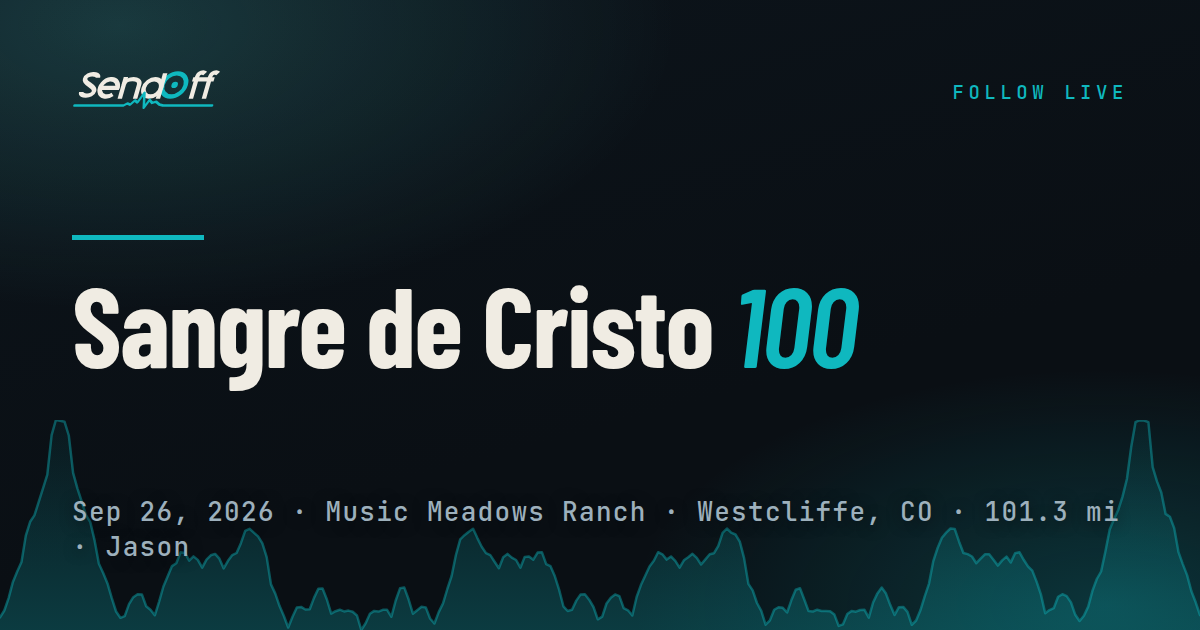
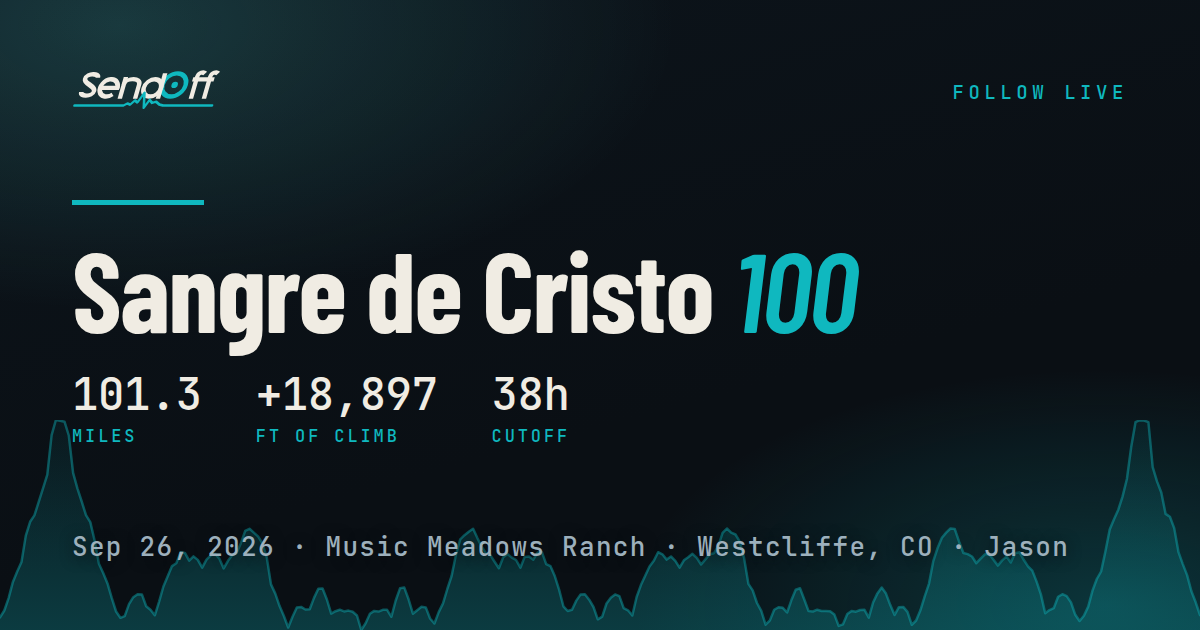
The address worth sharing is the one in the address bar
Most people share a race by copying the URL bar, not by finding a share
panel, and the bar always said race.html?id=. So the card work only
reached people who used the panel or clicked a bot's link.

Now: the hub links to /races/<slug>/ for a public race, the landing page
does, and the race page tidies the app URL into it once the config says
the race is public. Not when there is a token in the query, because a
share link's token is the one thing that must survive a copy, and never
for an unlisted race, which has no page of its own by construction.

This makes the share page a real address the app is served at rather than
a doorway that forwards, and two things had to be true for that to hold:

  Race.qs('id') reads the slug from /races/<slug>/ as well as from ?id=.
  sw.js (v6) answers a navigation to /races/<slug>/ with the precached
  race page instead of falling through to the hub. There is one share
  page per race, so they can never be precached; the app shell can.

Two real bugs fell out of testing the offline half, and both would have
been shipped by anyone reasoning about this instead of running it:

  race.html's scripts, styles and vendor files are all written relative.
  Served at /races/<slug>/ they resolved to /races/<slug>/lib/... and the
  page never loaded its JS at all. A base tag fixes every one, the same
  way the hub was handled when it moved to /app/.

  readRaceFile fetched the published copy at a relative races/<slug>/...,
[…]

Changed region(s): [[0.0617, 0.3619, 0.74, 0.7238], [0.0617, 0.7841, 0.925, 0.9048], [0.0617, 0.3016, 0.185, 0.3317]]

diff --git a/lib/race-core.js b/lib/race-core.js
@@ -121,7 +121,27 @@
 
   // ---------- query string ----------
   function qs(name) {
-    return new URLSearchParams(location.search).get(name);
+    const v = new URLSearchParams(location.search).get(name);
+    if (v !== null) return v;
+    // A race has two addresses that mean the same thing: race.html?id=<slug>,
+    // which is the app, and /races/<slug>/, which is the page carrying that
+    // race's own social card. The second is the one worth sharing, so it is
+    // the one the address bar ends up showing, and a page served there has no
+    // query to read the slug out of.
+    if (name === 'id') {
+      const m = location.pathname.match(/^\/races\/([^/]+)\/?$/);
+      if (m) return decodeURIComponent(m[1]);
+    }
+    return null;
+  }
+
+  // The address to hand somebody for a race. Only a public race has a page of
+  // its own: tools/make-og.py builds those from the public manifest, so an
+  // unlisted race never gets one and keeps the app URL.
+  function raceHref(slug, isPublic) {
+    return isPublic
+      ? `races/${encodeURIComponent(slug)}/`
+      : `race.html?id=${encodeURIComponent(slug)}`;
   }
 
   // ---------- hub config (hub.json) ----------
@@ -702,7 +722,13 @@
         } catch (e) { /* fall through to Pages */ }
       }
       try {
-        const res = await netFetch(`races/${encodeURIComponent(slug)}/${file}?_=` + Date.now(), { cache: 'no-store' });
+        // Absolute. This used to be relative, which was right for every page
+        // that lives at the site root and wrong the moment race.html is served
+        // at /races/<slug>/, where it resolved to /races/<slug>/races/<slug>/…
+        // and quietly found nothing. That only happens with no signal, when
+        // the service worker answers the share address with the app shell,
+        // which is exactly when there is nothing else to fall back to.
+        const res = await netFetch(`/races/${encodeURIComponent(slug)}/${file}?_=` + Date.now(), { cache: 'no-store' });
         if (res.ok) {
           const text = await res.text();
           // Offline, this "success" is often the service worker handing back
@@ -3596,7 +3622,7 @@
     // yet. Hence the ask: default to the address that always works, and upgrade
     // once the better one is known to be there.
     const appUrl = `${location.origin}${dir}race.html?id=${encodeURIComponent(this.slug())}`;
-    const cardUrl = `${location.origin}${dir}races/${encodeURIComponent(this.slug())}/`;
+    const cardUrl = `${location.origin}${dir}${raceHref(this.slug(), true)}`;
     let pageUrl = appUrl;
     if (!isPrivate) {
       try {
@@ -4017,5 +4043,5 @@
   }
 
   // ---------- expose ----------
-  window.Race = { fmt, units, slug, qs, hub, config, auth, share, api, gh, queue, roles, plans, archive, activities, nav, course, stationAt, fuel, compute, gpx, charts, access, mountAccountWidget, mountBetaBadge, offline, lastSeen, feedback, openFeedbackModal };
+  window.Race = { fmt, units, slug, qs, raceHref, hub, config, auth, share, api, gh, queue, roles, plans, archive, activities, nav, course, stationAt, fuel, compute, gpx, charts, access, mountAccountWidget, mountBetaBadge, offline, lastSeen, feedback, openFeedbackModal };
 })();

diff --git a/race.html b/race.html
@@ -3,6 +3,12 @@
 <head>
 <meta charset="UTF-8" />
 <meta name="viewport" content="width=device-width, initial-scale=1.0" />
+<!-- This page answers to two addresses: race.html?id=<slug>, and
+     /races/<slug>/ when the service worker serves it there with no signal.
+     Every script, style and asset below is written relative, which is right
+     at the root and resolves to /races/<slug>/lib/... at the other. One base
+     tag keeps them all pointing at the same place from either address. -->
+<base href="/">
 <title>SendOff</title>
 <link rel="icon" href="brand/sendoff-favicon.svg" type="image/svg+xml">
 <meta name="theme-color" content="#0a0f14" />
@@ -516,6 +522,25 @@
 <script>
   const REFRESH_MS = 10000;
   const slug = Race.qs('id');
+
+  // What somebody copies out of the address bar should be the address worth
+  // sharing. Arriving at /races/<slug>/ forwards here, which put the app URL
+  // back in the bar and undid the whole point of that page existing; most
+  // people share by copying the bar rather than by finding a share panel.
+  //
+  // Only for a public race, because only a public race has a page. Only when
+  // there is no token in the query, because a share link's token is the one
+  // thing that must survive a copy. And guarded, because a browser that
+  // dislikes this should not take the race page down with it.
+  function useShareableAddress(cfg) {
+    try {
+      if (!cfg || cfg.visibility !== 'public') return;
+      if (Race.qs('t') || Race.qs('new')) return;
+      const want = new URL(Race.raceHref(slug, true), location.origin).pathname;
+      if (location.pathname === want) return;
+      history.replaceState(history.state, '', want + location.hash);
+    } catch (e) { /* the address bar is cosmetic; the page is not */ }
+  }
   if (!slug) { window.location = 'index.html'; }
 
   // Update nav links to carry the slug
@@ -961,6 +986,8 @@
       data = Race.queue.applyTo(`races/${slug}/data.json`,
         await Race.gh.readRaceJson(slug, 'data.json', true));
       lastFetchAt = new Date();
+
+      useShareableAddress(cfg);
 
       document.title = `${cfg.name} · SendOff`;
       document.getElementById('race-title').innerHTML =

diff --git a/races/000001-sangre-de-cristo-100/index.html b/races/000001-sangre-de-cristo-100/index.html
@@ -5,12 +5,12 @@
 <meta name="viewport" content="width=device-width, initial-scale=1.0">
 <title>Sangre de Cristo 100 · SendOff</title>
 <meta name="theme-color" content="#0a0f14">
-<meta name="description" content="Sep 26, 2026 · Music Meadows Ranch · Westcliffe, CO · 101.3 mi · Jason: follow live on SendOff.">
+<meta name="description" content="Sep 26, 2026 · Music Meadows Ranch · Westcliffe, CO · Jason: follow live on SendOff.">
 <link rel="canonical" href="https://sendoff.run/races/000001-sangre-de-cristo-100/">
 <meta property="og:type" content="website">
 <meta property="og:site_name" content="SendOff">
 <meta property="og:title" content="Sangre de Cristo 100">
-<meta property="og:description" content="Sep 26, 2026 · Music Meadows Ranch · Westcliffe, CO · 101.3 mi · Jason: follow live on SendOff.">
+<meta property="og:description" content="Sep 26, 2026 · Music Meadows Ranch · Westcliffe, CO · Jason: follow live on SendOff.">
 <meta property="og:url" content="https://sendoff.run/races/000001-sangre-de-cristo-100/">
 <meta property="og:image" content="https://sendoff.run/races/000001-sangre-de-cristo-100/og.png">
 <meta property="og:image:width" content="1200">
@@ -18,7 +18,7 @@
 <meta property="og:image:alt" content="Sangre de Cristo 100: follow live on SendOff">
 <meta name="twitter:card" content="summary_large_image">
 <meta name="twitter:title" content="Sangre de Cristo 100">
-<meta name="twitter:description" content="Sep 26, 2026 · Music Meadows Ranch · Westcliffe, CO · 101.3 mi · Jason: follow live on SendOff.">
+<meta name="twitter:description" content="Sep 26, 2026 · Music Meadows Ranch · Westcliffe, CO · Jason: follow live on SendOff.">
 <meta name="twitter:image" content="https://sendoff.run/races/000001-sangre-de-cristo-100/og.png">
 <link rel="icon" href="/brand/sendoff-favicon.svg" type="image/svg+xml">
 <link rel="icon" type="image/png" sizes="32x32" href="/brand/favicon-32.png">

diff --git a/races/highball-to-thurmond-ultra/index.html b/races/highball-to-thurmond-ultra/index.html
@@ -5,12 +5,12 @@
 <meta name="viewport" content="width=device-width, initial-scale=1.0">
 <title>Highball to Thurmond Ultra · SendOff</title>
 <meta name="theme-color" content="#0a0f14">
-<meta name="description" content="May 17, 2026 · Thurmond, WV · 50 mi · Soft Serve: follow live on SendOff.">
+<meta name="description" content="May 17, 2026 · Thurmond, WV · Soft Serve: follow live on SendOff.">
 <link rel="canonical" href="https://sendoff.run/races/highball-to-thurmond-ultra/">
 <meta property="og:type" content="website">
 <meta property="og:site_name" content="SendOff">
 <meta property="og:title" content="Highball to Thurmond Ultra">
-<meta property="og:description" content="May 17, 2026 · Thurmond, WV · 50 mi · Soft Serve: follow live on SendOff.">
+<meta property="og:description" content="May 17, 2026 · Thurmond, WV · Soft Serve: follow live on SendOff.">
 <meta property="og:url" content="https://sendoff.run/races/highball-to-thurmond-ultra/">
 <meta property="og:image" content="https://sendoff.run/races/highball-to-thurmond-ultra/og.png">
 <meta property="og:image:width" content="1200">
@@ -18,7 +18,7 @@
 <meta property="og:image:alt" content="Highball to Thurmond Ultra: follow live on SendOff">
 <meta name="twitter:card" content="summary_large_image">
 <meta name="twitter:title" content="Highball to Thurmond Ultra">
-<meta name="twitter:description" content="May 17, 2026 · Thurmond, WV · 50 mi · Soft Serve: follow live on SendOff.">
+<meta name="twitter:description" content="May 17, 2026 · Thurmond, WV · Soft Serve: follow live on SendOff.">
 <meta name="twitter:image" content="https://sendoff.run/races/highball-to-thurmond-ultra/og.png">
 <link rel="icon" href="/brand/sendoff-favicon.svg" type="image/svg+xml">
 <link rel="icon" type="image/png" sizes="32x32" href="/brand/favicon-32.png">

diff --git a/races/six-0-trail-marathon/index.html b/races/six-0-trail-marathon/index.html
@@ -5,12 +5,12 @@
 <meta name="viewport" content="width=device-width, initial-scale=1.0">
 <title>Six-0 Trail Marathon · SendOff</title>
 <meta name="theme-color" content="#0a0f14">
-<meta name="description" content="Sep 5, 2026 · Cleburne, TX · 26.6 mi · Jason Dupree: follow live on SendOff.">
+<meta name="description" content="Sep 5, 2026 · Cleburne, TX · Jason Dupree: follow live on SendOff.">
 <link rel="canonical" href="https://sendoff.run/races/six-0-trail-marathon/">
 <meta property="og:type" content="website">
 <meta property="og:site_name" content="SendOff">
 <meta property="og:title" content="Six-0 Trail Marathon">
-<meta property="og:description" content="Sep 5, 2026 · Cleburne, TX · 26.6 mi · Jason Dupree: follow live on SendOff.">
+<meta property="og:description" content="Sep 5, 2026 · Cleburne, TX · Jason Dupree: follow live on SendOff.">
 <meta property="og:url" content="https://sendoff.run/races/six-0-trail-marathon/">
 <meta property="og:image" content="https://sendoff.run/races/six-0-trail-marathon/og.png">
 <meta property="og:image:width" content="1200">
@@ -18,7 +18,7 @@
 <meta property="og:image:alt" content="Six-0 Trail Marathon: follow live on SendOff">
 <meta name="twitter:card" content="summary_large_image">
 <meta name="twitter:title" content="Six-0 Trail Marathon">
-<meta name="twitter:description" content="Sep 5, 2026 · Cleburne, TX · 26.6 mi · Jason Dupree: follow live on SendOff.">
+<meta name="twitter:description" content="Sep 5, 2026 · Cleburne, TX · Jason Dupree: follow live on SendOff.">
 <meta name="twitter:image" content="https://sendoff.run/races/six-0-trail-marathon/og.png">
 <link rel="icon" href="/brand/sendoff-favicon.svg" type="image/svg+xml">
 <link rel="icon" type="image/png" sizes="32x32" href="/brand/favicon-32.png">

diff --git a/sw.js b/sw.js
@@ -18,7 +18,7 @@
 // claims clients immediately so a fixed worker takes over on the next load
 // rather than waiting for every tab to close.
 
-const VERSION = 'v5';
+const VERSION = 'v6';
 const SHELL = `sendoff-shell-${VERSION}`;
 const DATA = `sendoff-data-${VERSION}`;
 const OURS = [SHELL, DATA];
@@ -200,7 +200,18 @@ self.addEventListener('fetch', (event) => {
         throw new Error('no response');
       } catch (e) {
         const cache = await caches.open(SHELL);
+        // A race now lives at two addresses, and only one of them is
+        // precached. /races/<slug>/ is a share page that forwards into the
+        // app, and race.html reads the slug out of that path just as happily
+        // as out of ?id=, so serving the precached app shell for it is not a
+        // fallback, it is the same race. Without this, reloading a race with
+        // no signal after the address bar had been tidied would land on the
+        // hub, which is a worse offline story than the one being improved.
+        const forRace = /^\/races\/[^/]+\/?$/.test(url.pathname)
+          ? await cache.match('/race.html')
+          : null;
         const hit = await cache.match(req, { ignoreSearch: true })
+                 || forRace
                  || await cache.match('/app/index.html')
                  || await cache.match('/index.html');
         if (hit) return fromCache(hit);

diff --git a/app/index.html b/app/index.html
@@ -423,7 +423,7 @@ footer.site a[href^="mailto:"] { text-transform: none; letter-spacing: 0.08em; }
       badge = `<span class="card-badge">${roleName}</span>`;
     }
     return `
-      <a class="card status-${status}" href="race.html?id=${encodeURIComponent(r.slug)}">
+      <a class="card status-${status}" href="${Race.raceHref(r.slug, r.visibility !== 'private')}">
         ${badge}
         <div class="card-head">
           <div class="card-status status-${status}">${status === 'live' ? '<span class="live-dot"></span>' : ''}${statusText}</div>

diff --git a/index.html b/index.html
@@ -273,7 +273,7 @@
       back home watches the splits land live.</p>
     <div class="cta">
       <a class="btn-lp primary" href="#beta">Get beta access</a>
-      <a class="btn-lp" href="/race.html?id=six-0-trail-marathon">See a real race</a>
+      <a class="btn-lp" href="/races/six-0-trail-marathon/">See a real race</a>
     </div>
     <p class="hero-note">Watching needs no account and no app. Anyone with the
       link can follow along, and every public race stays readable forever.</p>

diff --git a/tools/make-og.py b/tools/make-og.py
@@ -142,6 +142,41 @@ def split_accent(name):
     parts = str(name).split()
     return (' '.join(parts[:-1]), parts[-1]) if len(parts) > 1 else (name, '')
 
+def race_stats(slug):
+    """Distance, climb and cutoff, read from the race's own config.
+
+    The card had the name and a line of small type and a great deal of dark
+    gradient. These are the three numbers somebody wants when they are deciding
+    whether to click, and they cost nothing: every race stores per segment
+    elevation, and loops multiply out.
+
+    Returns a list of (value, label) or [] when the config cannot be read, in
+    which case the card lays out without them.
+    """
+    try:
+        cfg = json.loads((ROOT / 'races' / slug / 'config.json').read_text())
+    except Exception:
+        return []
+    co = cfg.get('course') or {}
+    segs = co.get('segments') or co.get('loopSegments') or []
+    loops = co.get('loopCount', 1) if cfg.get('courseType') == 'loops' else 1
+    out = []
+
+    dist = cfg.get('totalDistanceMi') or (co.get('loopDistanceMi', 0) * loops) or \
+           sum(x.get('distanceMi') or 0 for x in segs) * loops
+    if dist:
+        out.append((f'{dist:g}', 'miles'))
+
+    gain = sum(x.get('elevationGainFt') or 0 for x in segs) * loops
+    if gain:
+        out.append((f'+{gain:,.0f}', 'ft of climb'))
+
+    cut = (cfg.get('cutoffs') or {}).get('totalHours')
+    if cut:
+        out.append((f'{cut:g}h', 'cutoff'))
+    return out
+
+
 def elevation_path(slug, width, height, samples=280):
     """The course, as an SVG area path, from that race's own GPX.
 
@@ -195,7 +230,7 @@ def elevation_path(slug, width, height, samples=280):
             f'stroke-width="2.5" stroke-linejoin="round" stroke-linecap="round"/></svg>')
 
 
-def card_html(title_main, title_accent, meta_line, kicker, profile=None):
+def card_html(title_main, title_accent, meta_line, kicker, profile=None, stats=None):
     faces = "\n".join([
       f"@font-face{{font-family:'BC';font-weight:600;src:url(data:font/woff2;base64,{b64('bc-600.woff2')}) format('woff2')}}",
       f"@font-face{{font-family:'BC';font-weight:700;src:url(data:font/woff2;base64,{b64('bc-700.woff2')}) format('woff2')}}",
@@ -205,6 +240,10 @@ def card_html(title_main, title_accent, meta_line, kicker, profile=None):
     ])
     accent = f' <em>{esc(title_accent)}</em>' if title_accent else ''
     profile_html = f'<div class="profile">{profile}</div>' if profile else ''
+    stats_html = ''
+    if stats:
+        cells = ''.join(f'<div class="stat"><b>{esc(v)}</b><span>{esc(l)}</span></div>' for v, l in stats)
+        stats_html = f'<div class="stats">{cells}</div>'
     return f"""<!DOCTYPE html><html><head><meta charset="utf-8"><style>
 {faces}
 *{{margin:0;padding:0;box-sizing:border-box}}
@@ -231,7 +270,14 @@ h1{{font-family:'BC',sans-serif;font-weight:700;font-size:112px;line-height:.96;
 h1 em{{font-style:italic;font-weight:600;color:#0FB8BF}}
 .meta{{font-family:'JB',monospace;font-size:26px;letter-spacing:.05em;color:#9DB0BC}}
 .rule{{height:5px;width:132px;background:#0FB8BF;margin-bottom:30px}}
-.mid{{display:flex;flex-direction:column;justify-content:center;flex:1;padding:26px 0}}
+.mid{{display:flex;flex-direction:column;justify-content:center;flex:1;padding:18px 0}}
+/* The three numbers somebody wants before clicking. Mono, because they are
+   figures, and sized so the eye lands on them after the name. */
+.stats{{display:flex;gap:54px;margin-top:30px}}
+.stat b{{display:block;font-family:'JB',monospace;font-size:44px;font-weight:500;
+        letter-spacing:-.01em;color:#F0ECE3;line-height:1}}
+.stat span{{display:block;margin-top:9px;font-family:'JB',monospace;font-size:17px;
+           letter-spacing:.17em;text-transform:uppercase;color:#0FB8BF}}
 /* The course runs the full width along the bottom, behind the meta line and
    under the title. Bled to the edges on purpose: it is the ground the card
    sits on rather than a chart somebody is meant to read values off. */
@@ -242,7 +288,7 @@ h1 em{{font-style:italic;font-weight:600;color:#0FB8BF}}
 </style></head><body>
   {profile_html}
   <div class="top"><span class="wm">{wordmark()}</span><span class="kicker">{esc(kicker)}</span></div>
-  <div class="mid"><div class="rule"></div><h1>{esc(title_main)}{accent}</h1></div>
+  <div class="mid"><div class="rule"></div><h1>{esc(title_main)}{accent}</h1>{stats_html}</div>
   <div class="meta">{esc(meta_line)}</div>
 </body></html>"""
 
@@ -277,16 +323,14 @@ def main():
     for race in index.get('races', []):
         slug = race['slug']
         bits = [pretty_date(race.get('startTime')), race.get('location') or '']
-        if race.get('totalDistanceMi'):
-            d = race['totalDistanceMi']
-            bits.append(f"{d:g} mi")
         runners = race.get('runnerNames') or []
         if runners:
             bits.append(' · '.join(runners))
         meta_line = ' · '.join(b for b in bits if b)
         main_t, accent = split_accent(race.get('name', slug))
         render(card_html(main_t, accent, meta_line, 'Follow live',
-                         profile=elevation_path(slug, W, 210)),
+                         profile=elevation_path(slug, W, 210),
+                         stats=race_stats(slug)),
                ROOT / 'races' / slug / 'og.png')
 
         name = race.get('name', slug)
